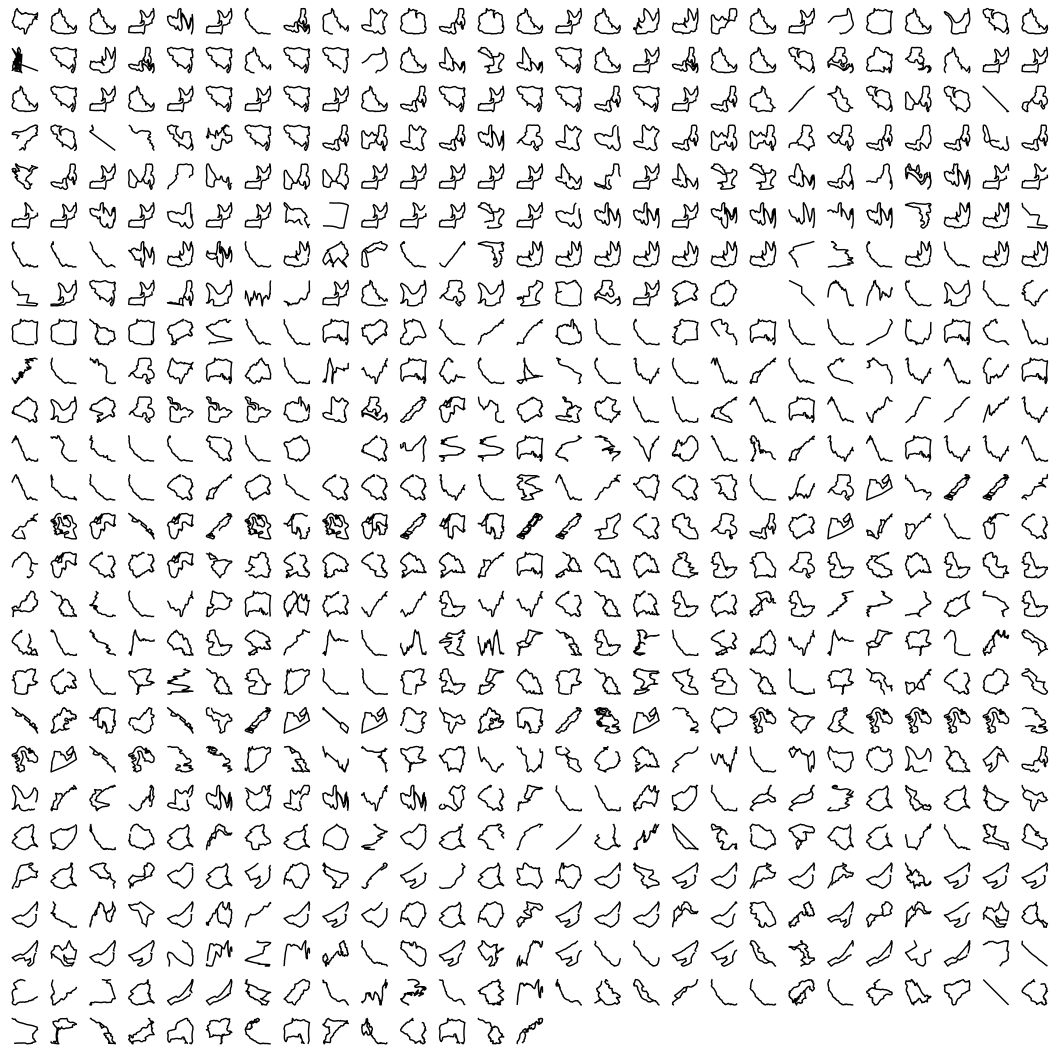
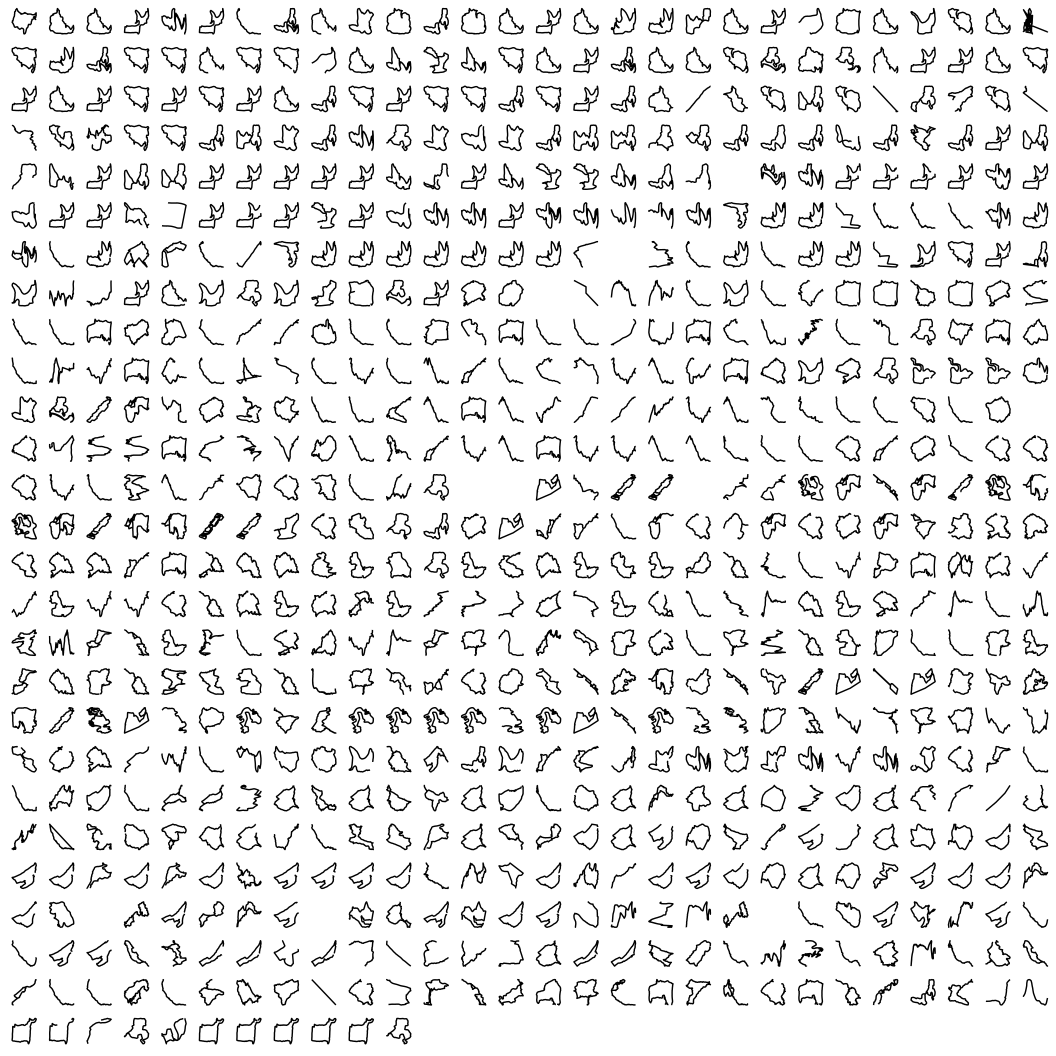
Create functions for shiny app

Changed region(s): [[0.0, 0.0, 1.0, 1.0]]

diff --git a/README.md b/README.md
@@ -13,12 +13,14 @@ You will need the following packages:
 
     library(tarchetypes)
     library(conflicted)
+    library(reactable)
     library(tidyverse)
     library(lubridate)
     library(jsonlite)
     library(targets)
     library(httpuv)
     library(duckdb)
+    library(shiny)
     library(httr2)
     library(arrow)
     library(pins)
@@ -94,15 +96,16 @@ In the end there is a data frame with one row for the currently
 authenticated user:
 
     ## # A tibble: 1 × 26
-    ##         id resource_state firstname lastname city    state country sex   premium
-    ##      <int>          <int> <chr>     <chr>    <chr>   <chr> <chr>   <chr> <lgl>  
-    ## 1 26845822              3 "Julian " During   Baling… Bade… Germany M     FALSE  
-    ## # … with 17 more variables: summit <lgl>, created_at <chr>, updated_at <chr>,
+    ##         id resource_s…¹ first…² lastn…³ city  state country sex   premium summit
+    ##      <int>        <int> <chr>   <chr>   <chr> <chr> <chr>   <chr> <lgl>   <lgl> 
+    ## 1 26845822            3 "Julia… During  Bali… Bade… Germany M     FALSE   FALSE 
+    ## # … with 16 more variables: created_at <chr>, updated_at <chr>,
     ## #   badge_type_id <int>, weight <dbl>, profile_medium <chr>, profile <chr>,
     ## #   blocked <lgl>, can_follow <lgl>, follower_count <int>, friend_count <int>,
     ## #   mutual_friend_count <int>, athlete_type <int>, date_preference <chr>,
     ## #   measurement_preference <chr>, is_winback_via_upload <lgl>,
-    ## #   is_winback_via_view <lgl>
+    ## #   is_winback_via_view <lgl>, and abbreviated variable names ¹resource_state,
+    ## #   ²firstname, ³lastname
 
 ## Activities
 
@@ -143,26 +146,26 @@ activities to read.
 
 The resulting data frame consists of one row per activity:
 
-    ## # A tibble: 738 × 57
-    ##    resource_state athlete$id name              distance moving_time elapsed_time
-    ##             <int>      <int> <chr>                <dbl>       <int>        <int>
-    ##  1              2   26845822 "Zeit Verbrechen…    4628.        2030         2165
-    ##  2              2   26845822 "Bauerfeind rett…    4595.        1926         1938
-    ##  3              2   26845822 "Cui Bono"           4560.        1972         1996
-    ##  4              2   26845822 "Semi Final Run"     4620.        1897         1934
-    ##  5              2   26845822 "Too Many Tabs"      5794.        2778         2991
-    ##  6              2   26845822 "Hard Fork ChatG…    5129.        2396         2465
-    ##  7              2   26845822 "Invisible Run "     4195         1747         1775
-    ##  8              2   26845822 "Costa Run"          4322.        1823         1823
-    ##  9              2   26845822 "Pre Casper "        4550.        1897         1907
-    ## 10              2   26845822 "Advent 🏃 "         5422.        2379         2385
-    ## # … with 728 more rows, and 52 more variables: athlete$resource_state <int>,
-    ## #   total_elevation_gain <dbl>, type <chr>, sport_type <chr>,
-    ## #   workout_type <int>, id <dbl>, start_date <dttm>, start_date_local <chr>,
-    ## #   timezone <chr>, utc_offset <dbl>, location_city <lgl>,
-    ## #   location_state <lgl>, location_country <chr>, achievement_count <int>,
-    ## #   kudos_count <int>, comment_count <int>, athlete_count <int>,
-    ## #   photo_count <int>, map <df[,3]>, trainer <lgl>, commute <lgl>, …
+    ## # A tibble: 740 × 57
+    ##    resourc…¹ athle…² name  dista…³ movin…⁴ elaps…⁵ total…⁶ type  sport…⁷ worko…⁸
+    ##        <int>   <int> <chr>   <dbl>   <int>   <int>   <dbl> <chr> <chr>     <int>
+    ##  1         2  2.68e7 "Chr…   5056.    2217    2276   126.  Run   Run           0
+    ##  2         2  2.68e7 "Bit…   4614.    1958    2021    39.2 Run   Run           0
+    ##  3         2  2.68e7 "Zei…   4628.    2030    2165    39.2 Run   Run           0
+    ##  4         2  2.68e7 "Bau…   4595.    1926    1938    39.2 Run   Run           0
+    ##  5         2  2.68e7 "Cui…   4560.    1972    1996    39.2 Run   Run           0
+    ##  6         2  2.68e7 "Sem…   4620.    1897    1934    39.1 Run   Run           0
+    ##  7         2  2.68e7 "Too…   5794.    2778    2991    87.3 Run   Run           0
+    ##  8         2  2.68e7 "Har…   5129.    2396    2465   129.  Run   Run           0
+    ##  9         2  2.68e7 "Inv…   4195     1747    1775    29.8 Run   Run           0
+    ## 10         2  2.68e7 "Cos…   4322.    1823    1823    36   Run   Run           0
+    ## # … with 730 more rows, 48 more variables: athlete$resource_state <int>,
+    ## #   id <dbl>, start_date <dttm>, start_date_local <chr>, timezone <chr>,
+    ## #   utc_offset <dbl>, location_city <lgl>, location_state <lgl>,
+    ## #   location_country <chr>, achievement_count <int>, kudos_count <int>,
+    ## #   comment_count <int>, athlete_count <int>, photo_count <int>, map <df[,3]>,
+    ## #   trainer <lgl>, commute <lgl>, manual <lgl>, private <lgl>,
+    ## #   visibility <chr>, flagged <lgl>, gear_id <chr>, start_latlng <list>, …
 
 Make sure that all ID columns have a character format and improve the
 column names.
@@ -251,43 +254,11 @@ paths to all the measurement files:
         board_name, type = "file", regexp = "df_\\d.*\\.arrow$", recurse = TRUE)
     }
 
-Insert them all into a duckdb and select relevant columns:
-
-    meas_all <- function(paths_meas) {
-      act_col_types <- schema(
-        moving = boolean(), velocity_smooth = double(),
-        grade_smooth = double(), distance = double(),
-        altitude = double(), heartrate = int32(), time = int32(),
-        lat = double(), lng = double(), cadence = int32(),
-        watts = int32(), id = string())
-
-      open_dataset(paths_meas, format = "parquet", schema = act_col_types) |>
-        to_duckdb() |>
-        select(id, lat, lng, altitude, time) |>
-        filter(!is.na(lat) & !is.na(lng)) |>
-        collect()
-    }
-
-    ## # A tibble: 2,545,904 × 5
-    ##    id           lat   lng altitude  time
-    ##    <chr>      <dbl> <dbl>    <dbl> <int>
-    ##  1 8271787410  48.2  9.02     763.     0
-    ##  2 8271787410  48.2  9.02     763.     1
-    ##  3 8271787410  48.2  9.02     763.     7
-    ##  4 8271787410  48.2  9.02     763.    13
-    ##  5 8271787410  48.2  9.02     763.    14
-    ##  6 8271787410  48.2  9.02     763.    15
-    ##  7 8271787410  48.2  9.02     763.    16
-    ##  8 8271787410  48.2  9.02     763.    17
-    ##  9 8271787410  48.2  9.02     763.    18
-    ## 10 8271787410  48.2  9.02     763.    19
-    ## # … with 2,545,894 more rows
-
 In the final plot every facet is one activity. Keep the rest of the plot
 as minimal as possible.
 
-    vis_meas <- function(df_meas_pro) {
-      df_meas_pro %>%
+    vis_meas <- function(df_meas) {
+      df_meas |>
         ggplot(aes(x = lng, y = lat)) +
         geom_path() +
         facet_wrap(~ id, scales = "free") +
